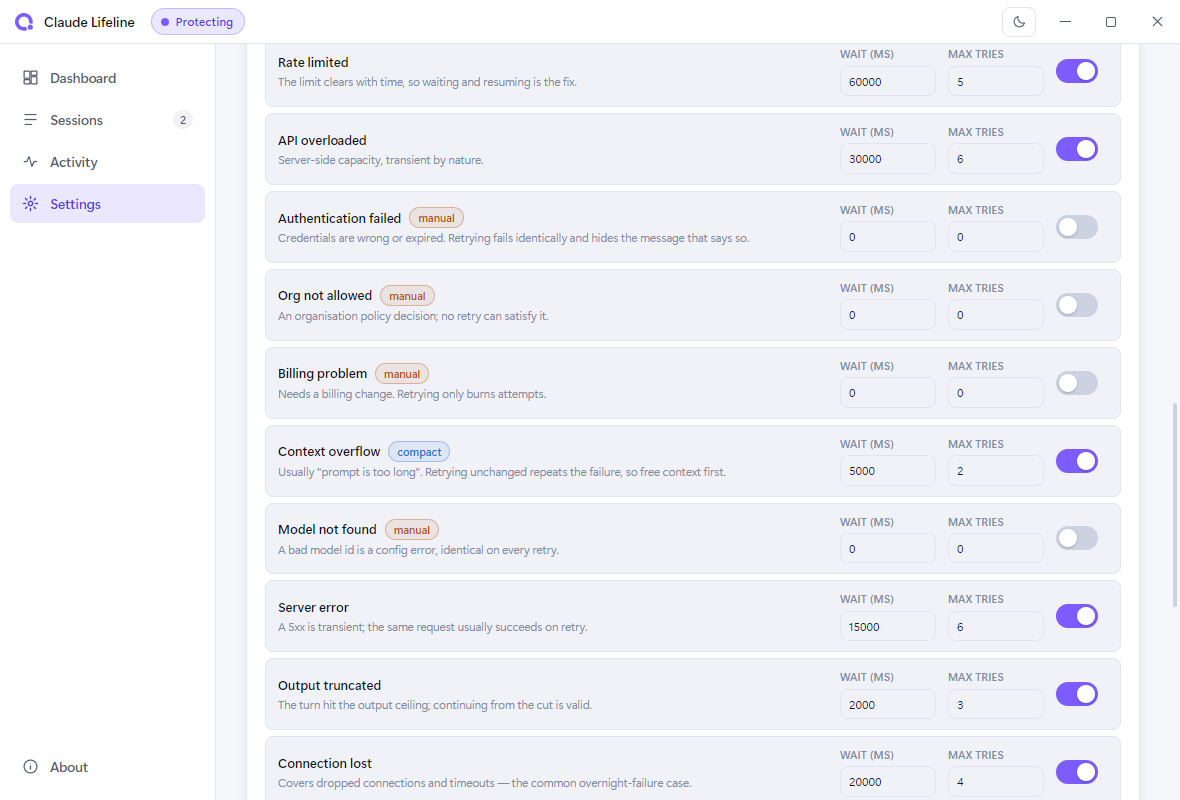
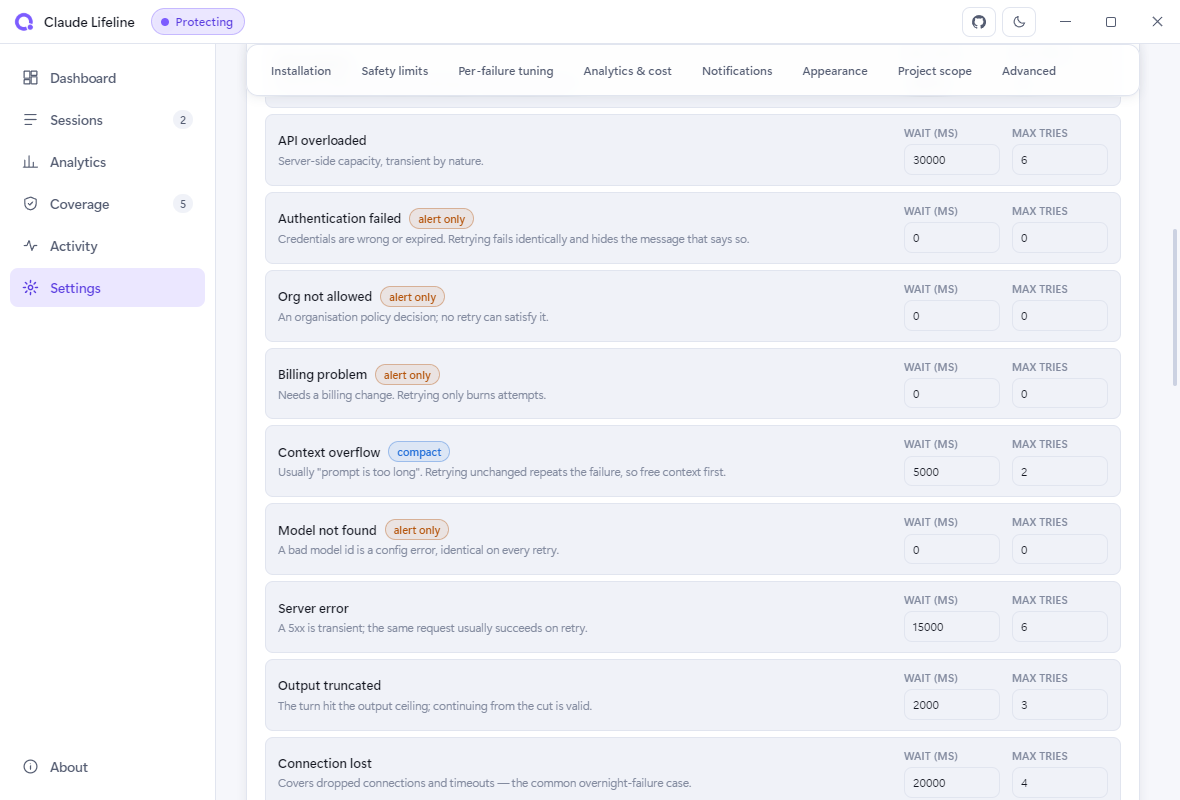
Document it: README, screenshots, and v1.1.0
The screenshots are generated by a Playwright spec against the real app
rather than captured by hand, so an image in the README can never show a UI
that no longer passes its own tests. Regenerating them is `npm run
screenshots`. The seeded data is representative, not real.

diff --git a/README.md b/README.md
@@ -6,7 +6,47 @@ A long agent run ends when the API hiccups — a rate limit, a 503, a dropped st
 
 It hooks into Claude Code's own failure event, waits for the appropriate backoff, and injects a message that resumes the turn exactly where it stopped.
 
+<p align="center">
+  <a href="#install"><img alt="Download" src="https://img.shields.io/badge/Download-Windows%20installer-5b5bd6?style=flat-square"></a>
+  <img alt="Platform" src="https://img.shields.io/badge/Windows%2010%20%2F%2011-x64%20%C2%B7%20arm64-2f2f3a?style=flat-square">
+  <img alt="Dependencies" src="https://img.shields.io/badge/runtime%20deps-0-3f9a5c?style=flat-square">
+  <img alt="Tests" src="https://img.shields.io/badge/tests-141%20unit%20%C2%B7%2044%20e2e-3f9a5c?style=flat-square">
+  <img alt="License" src="https://img.shields.io/badge/license-MIT-2f2f3a?style=flat-square">
+</p>
+
 ![Dashboard](docs/screenshots/dashboard-dark.png)
+
+---
+
+## Quick start
+
+Two commands and one double-click, depending on how much you want.
+
+**Just protect my sessions** — no app, no tray icon, nothing running:
+
+```bash
+git clone https://github.com/AndreiElekesIntel/claude-lifeline.git
+cd claude-lifeline
+npm install
+npm run install-hook
+```
+
+**Everything, set up for me** — hooks, the tray app, a desktop shortcut, start-at-logon, every feature on. Double-click **`run.bat`** in the repo root, or:
+
+```bash
+run.bat
+```
+
+**Just give me the .exe** — grab it from the [**latest release**](https://github.com/AndreiElekesIntel/claude-lifeline/releases/latest):
+
+| Download | What it is |
+|---|---|
+| `Claude Lifeline Setup 1.1.0.exe` | per-user installer — desktop shortcut, choosable install directory |
+| `Claude Lifeline 1.1.0.exe` | portable — runs from wherever you put it, installs nothing |
+
+> The installer registers the recovery hooks on first launch, so the .exe alone is a complete install. See [Install](#install) for verification and the SmartScreen note.
+
+**Claude Code reads hooks at startup, so restart any session that is already running.**
 
 ---
 
@@ -25,6 +65,8 @@ StopFailure  →  Lifeline hook
 ```
 
 **The recovery runs inside Claude Code's own process.** That is the important architectural consequence: nothing has to be running for your sessions to be protected. No watchdog process, no polling, no window open. The tray app is *optional* — it shows you what happened and lets you configure it, and you can quit it without losing protection.
+
+The full mechanism, including the payload shape and how each finding was verified, is in [**docs/HOW-IT-WORKS.md**](docs/HOW-IT-WORKS.md).
 
 ---
 
@@ -45,9 +87,11 @@ Not every failure should be retried, and that distinction is the core of the des
 | `billing_error` | **alerts you** | needs a billing change |
 | `model_not_found` | **alerts you** | a bad model id is a config error |
 
-![Per-failure policy](docs/screenshots/policies-dark.png)
+The Coverage tab is that table, live — every way a turn can end, what happens to it, and a switch on each one:
 
-Every row above is configurable — wait time, attempt cap, and whether it auto-resumes at all.
+![Coverage](docs/screenshots/coverage-dark.png)
+
+Turning a class off downgrades it to alert-only rather than ignoring it. Turning a *hopeless* class on is held back by a guard that explains why, because auto-resuming an expired credential just hides the message that says so.
 
 ### Beyond API errors
 
@@ -75,18 +119,94 @@ The hook is also written to fail safe: **any unexpected error exits 0.** Lifelin
 
 ---
 
+## The app
+
+Seven tabs, dark and light, and a tray icon whose colour tells you the state at a glance: **violet** protecting active work, **blue** waiting for sessions, **amber** something needs you, **grey** paused.
+
+### Sessions
+
+Every Claude Code session on the machine, live. Strictly read-only: it reads the JSON records Claude Code maintains and probes liveness with signal 0, which tests for a process without affecting it. Watching your sessions can never disturb them.
+
+![Sessions](docs/screenshots/sessions-dark.png)
+
+### Analytics
+
+Time worked, sessions, tokens and estimated spend — computed here, on this machine, from transcripts Claude Code already wrote. Nothing is sent anywhere and nothing is written back.
+
+![Analytics](docs/screenshots/analytics-dark.png)
+
+There is a second view over Claude Code's own `/usage` statistics, which knows things transcripts do not — all-time totals, per-model splits, your longest session ever:
+
+![Usage and models](docs/screenshots/usage-dark.png)
+
+Cost is an estimate by construction: Claude Code records tokens, not money, so these are tokens × published rate and will not match a subscription bill. The rates are editable under Settings → Analytics & cost for exactly that reason.
+
+### Activity
+
+Every recovery, skip, and block, filterable by kind. This is the answer to "what happened while I was asleep".
+
+![Activity](docs/screenshots/activity-dark.png)
+
+### Settings
+
+Feature toggles, the four safety limits, analytics, and per-project allow/deny lists.
+
+![Settings](docs/screenshots/settings-dark.png)
+
+Below that, the per-failure policy table — wait, attempt cap, and strategy for each of the ten classes:
+
+![Per-failure policy](docs/screenshots/policies-dark.png)
+
+### About
+
+A doctor's-eye view of the install — what is registered, how many checks are armed, and how many recoveries have actually happened:
+
+![About](docs/screenshots/about-dark.png)
+
+Scroll down and it tells you where every byte it writes lives, so you can go and read it:
+
+![About, paths](docs/screenshots/about-detail-dark.png)
+
+### Light theme
+
+Follows Windows by default, or pick one.
+
+| | |
+|---|---|
+| ![Dashboard, light](docs/screenshots/dashboard-light.png) | ![Coverage, light](docs/screenshots/coverage-light.png) |
+| ![Analytics, light](docs/screenshots/analytics-light.png) | ![Sessions, light](docs/screenshots/sessions-light.png) |
+| ![Settings, light](docs/screenshots/settings-light.png) | ![Policies, light](docs/screenshots/policies-light.png) |
+
+---
+
 ## Install
 
-Requires Windows 10/11 and Node 20+.
+Requires Windows 10 or 11 and Node 20+. Nothing needs administrator rights — everything written lives under your own user profile.
+
+### Option 1 — `run.bat` (does everything)
+
+Double-click `run.bat`, or run it with flags:
 
 ```bash
-git clone <your-fork> claude-lifeline
-cd claude-lifeline
-npm install
-npm run install-hook     # this is the part that protects your sessions
+run.bat                  # install, register hooks, build, shortcuts, autostart, launch
+run.bat -SkipBuild       # skip the packaged build; autostart runs from this checkout
+run.bat -NoLaunch        # set everything up but do not start the app
+run.bat -Proxy ""        # install without a proxy (defaults to Intel's)
 ```
 
-Verify the whole chain:
+It is idempotent — re-running repairs a partial install rather than duplicating anything. The hooks go in first, before the app and the shortcuts, so that if a later step fails the machine is still protected.
+
+### Option 2 — by hand
+
+```bash
+npm install
+npm run install-hook     # this is the part that protects your sessions
+npm start                # optional: the tray app
+npm run build            # optional: build the installer + portable exe into dist/
+powershell -ExecutionPolicy Bypass -File scripts\install-autostart.ps1   # optional: start at logon
+```
+
+### Verify
 
 ```bash
 npm run doctor
@@ -103,22 +223,23 @@ npm run doctor
 Everything checks out. Your sessions will resume themselves after an API error.
 ```
 
-> Claude Code reads hooks at startup, so **restart any session that is already running** to pick them up.
-
-### Optional: the tray app
+### Uninstall
 
 ```bash
-npm start                                                    # run it
-npm run build                                                # build an installer
-powershell -ExecutionPolicy Bypass -File scripts\install-autostart.ps1   # start at logon
+npm run uninstall-hook                                                   # remove the hooks
+powershell -ExecutionPolicy Bypass -File scripts\install-autostart.ps1 -Uninstall
 ```
+
+Uninstalling is recorded as a decision, so the app will not quietly reinstall the hooks on its next launch.
+
+### The unsigned-binary note
 
 `npm run build` produces two artifacts in `dist/`, neither of which is code-signed:
 
 | | |
 |---|---|
-| `Claude Lifeline Setup 1.0.0.exe` | per-user installer, choosable install directory, desktop shortcut |
-| `Claude Lifeline 1.0.0.exe` | portable — runs without installing |
+| `Claude Lifeline Setup 1.1.0.exe` | per-user installer, choosable install directory, desktop shortcut |
+| `Claude Lifeline 1.1.0.exe` | portable — runs without installing |
 
 Because they are unsigned, SmartScreen will warn on first run. Build from source or use *More info → Run anyway*.
 
@@ -143,44 +264,70 @@ A Windows service runs in session 0, which has no desktop — it cannot draw a t
 
 ---
 
-## The app
+## Extras
 
-Five tabs, dark and light, and a tray icon whose colour tells you the state at a glance: **violet** protecting active work, **blue** waiting for sessions, **amber** something needs you, **grey** paused.
+### Keep recovery working while you edit the code
 
-| | |
-|---|---|
-| ![Sessions](docs/screenshots/sessions-dark.png) | ![Activity](docs/screenshots/activity-dark.png) |
-| **Sessions** — read from Claude Code's own session records. Nothing is attached to or altered. | **Activity** — every recovery, skip, and block, filterable. |
-| ![Settings](docs/screenshots/settings-dark.png) | ![Light theme](docs/screenshots/dashboard-light.png) |
-| **Settings** — feature toggles, safety limits, per-failure policy. | **Light theme** — follows Windows, or pick one. |
+The hooks point at a path. If that path is your working tree, an edit mid-session runs half-written code.
 
-Session monitoring is strictly read-only: it reads the JSON records Claude Code maintains and probes liveness with signal 0, which tests for a process without affecting it. Watching your sessions can never disturb them.
+```bash
+npm run pin
+```
+
+This snapshots the recovery code to `%APPDATA%\claude-lifeline\runtime\` and re-registers the hooks against the snapshot, so your live sessions keep being rescued by a known-good copy while you work on the next one. `npm run pin` again to publish, `npm run install-hook` to go back to tracking the tree.
+
+### Shut the machine down when the work is genuinely finished
+
+An overnight run that finishes at 3am leaves a laptop on until morning. This checks, and only powers off if everything is really done:
+
+```bash
+npm run shutdown-check                                                          # report only, never acts
+powershell -ExecutionPolicy Bypass -File scripts\schedule-shutdown.ps1 -At 05:00 -DryRun
+powershell -ExecutionPolicy Bypass -File scripts\schedule-shutdown.ps1 -At 05:00
+```
+
+The decision is a **veto, not a score**: anything unexplained blocks it. A busy session, a turn that ended mid-tool-call, a recent recovery attempt, or anything flagged for attention all refuse the shutdown — and it keeps re-checking through a 90-minute grace period, because the case it exists for is a session three minutes into a five-attempt rate-limit backoff at the moment the clock strikes. If in doubt, the machine stays on.
+
+Start with `-DryRun`. It registers a task that reports its decision and shuts nothing down.
 
 ---
 
 ## Configuration
 
-`%APPDATA%\claude-lifeline\config.json`, editable from the Settings tab. A corrupt or missing file falls back to defaults rather than throwing — a broken config is not a reason to stop rescuing sessions.
+`%APPDATA%\claude-lifeline\config.json`, editable from the Settings tab. A corrupt or missing file falls back to defaults rather than throwing — a broken config is not a reason to stop rescuing sessions. A config written by an older version is upgraded on load, and keys written by a *newer* version are preserved rather than stripped.
 
 ```jsonc
 {
-  "enabled": true,
+  "enabled": true,                     // master switch; off means the hook does nothing
   "features": {
-    "apiErrorRecovery": true,        // the core feature
-    "contextOverflowRecovery": true, // /compact when context overflows
-    "toolFailureRecovery": false,    // nudge on tool timeouts
+    "apiErrorRecovery": true,          // the core feature
+    "contextOverflowRecovery": true,   // /compact when context overflows
+    "toolFailureRecovery": false,      // nudge on tool timeouts — noisier, so off
     "backgroundTaskRecovery": true,
-    "respectNonRetryable": true      // keep auth/billing on alert-only
+    "stalledSessionDetection": true,
+    "deadSessionDetection": true,
+    "desktopNotifications": true,
+    "soundAlerts": false,
+    "respectNonRetryable": true        // keep auth/billing on alert-only
   },
   "limits": {
     "maxAttemptsPerPrompt": 5,
     "maxAttemptsPerHour": 20,
     "maxAttemptsPerDay": 100,
-    "maxBackoffMs": 300000
+    "cooldownMs": 5000,
+    "maxBackoffMs": 300000,
+    "stalledAfterMs": 900000
+  },
+  "analytics": {
+    "enabled": true,                   // read transcripts for time/token/cost reporting
+    "rates": {}                        // per-model overrides, USD per million tokens
+  },
+  "hooks": {
+    "autoInstall": true                // register missing hooks at startup
   },
   "advanced": {
-    "projectDenylist": [],           // never recover these paths
-    "projectAllowlist": [],          // empty = all projects
+    "projectDenylist": [],             // never recover these paths
+    "projectAllowlist": [],            // empty = all projects
     "debugLogging": false
   }
 }
@@ -191,23 +338,26 @@ Session monitoring is strictly read-only: it reads the JSON records Claude Code 
 | `%APPDATA%\claude-lifeline\config.json` | your settings |
 | `%APPDATA%\claude-lifeline\events.jsonl` | what happened, append-only |
 | `%APPDATA%\claude-lifeline\ledger.json` | attempt counts (the loop guard) |
+| `%APPDATA%\claude-lifeline\runtime\` | the pinned snapshot, if you ran `npm run pin` |
 | `%APPDATA%\claude-lifeline\backups\` | settings.json backups, taken before every install |
 | `~\.claude\settings.json` | where the hooks are registered |
+
+**Nothing here phones home.** Lifeline makes no network requests at all — every number on the Analytics tab is computed on this machine from files Claude Code already wrote. The source is public so you can check that rather than take our word for it.
 
 ---
 
 ## Development
 
 ```bash
-npm test             # 56 unit tests
-npm run test:e2e     # 25 Playwright tests against the real Electron app
+npm test             # 141 unit tests
+npm run test:e2e     # 44 Playwright tests against the real Electron app
 npm run lint         # project-specific invariant checks
 npm run screenshots  # regenerate docs/screenshots/
 npm run dev          # run with devtools open
 npm run build        # installer + portable exe into dist/
 ```
 
-Tests redirect `LIFELINE_HOME` and `CLAUDE_CONFIG_DIR` to a throwaway directory, so a test run can never read your real sessions or rewrite your real `settings.json`.
+Tests redirect `LIFELINE_HOME` and `CLAUDE_CONFIG_DIR` to a throwaway directory and give each one its own Electron `--user-data-dir`, so a test run can never read your real sessions, rewrite your real `settings.json`, or collide with a tray app you have open.
 
 ```
 src/
@@ -215,10 +365,13 @@ src/
   shared/policy.js        per-failure decisions and rationale
   shared/ledger.js        the four-way loop guard
   shared/installer.js     safe settings.json editing (backs up, merges, never clobbers)
+  shared/analytics.js     transcript reading: time, tokens, cost
+  shared/idle-shutdown.js the "is everything really finished" veto
   main/                   Electron main, tray, monitor
   renderer/               the UI
 scripts/
-  cli.mjs                 install / uninstall / doctor / status
+  cli.mjs                 install / uninstall / pin / doctor / status
+  idle-shutdown.mjs       the scheduled shutdown check
   build.mjs               packaging, with the Windows toolchain workarounds
   make-icons.mjs          generates assets/icon.ico from the tray drawing code
 ```
@@ -227,18 +380,37 @@ scripts/
 
 - **Zero runtime dependencies.** The hook is spawned as a bare Node process by Claude Code; it cannot rely on module resolution or an install step.
 - **The tray icon is generated at runtime** — PNGs encoded with Node's built-in `zlib`, so status colours and DPI variants need no image assets.
-- **The renderer is locked down**: `contextIsolation: true`, `nodeIntegration: false`, a strict CSP, and no `innerHTML` anywhere. Event details carry API error text and session names, which are untrusted strings; lint enforces this.
+- **The renderer is locked down**: `contextIsolation: true`, `nodeIntegration: false`, a strict CSP, and no `innerHTML` anywhere. Event details carry API error text and session names, which are untrusted strings; lint enforces this. Outbound links are passed to main as *keys*, never URLs, so an injected string cannot become a browser launch.
 - **Hook installation is non-destructive**: it backs up `settings.json`, merges into existing hook groups, tags its own entries, and *aborts* rather than overwriting a file it cannot parse.
+- **The screenshots in this README are generated by a test.** They are captured by `test/e2e/screenshots.spec.js` against the real app, so an image can never show a UI that no longer passes its own suite.
+
+---
+
+## Contributing
+
+Issues and pull requests are welcome. `main` is protected, so changes land through a reviewed PR:
+
+1. Fork, then branch from `main`.
+2. Make the change, and add a test that would have failed before it.
+3. `npm test && npm run test:e2e && npm run lint` — all three must be clean.
+4. Open a PR describing what failure mode the change addresses.
+
+Comments here explain *why*, not what. If a line looks odd, the odd part is usually the point — say so in a comment rather than leaving the next reader to rediscover it.
 
 ---
 
 ## Limitations
 
-- **Windows-first.** The hook is cross-platform; the tray app and autostart script are Windows-specific.
+- **Windows-first.** The hook is cross-platform; the tray app, autostart, and shutdown scripts are Windows-specific.
 - **Not retroactive.** Sessions running before you install the hooks are not protected until restarted.
 - **Interactive sessions only.** `asyncRewake` needs an interactive or streaming-input session; plain `claude -p` print mode exits before a rewake can land.
+- **Cost is an estimate.** Tokens × published rate, which is not what a subscription bills.
 - **Uses internal hook options.** `asyncRewake` is not part of Claude Code's documented public API and could change between releases. `npm run doctor` will tell you if the wiring stops matching.
+
+---
 
 ## License
 
-MIT
+MIT. Built with **Claude Opus 5** in **Claude Code** — which makes it a tool built inside the thing it protects: the failures it recovers from are ones it hit while being written.
+
+Not affiliated with Anthropic.
